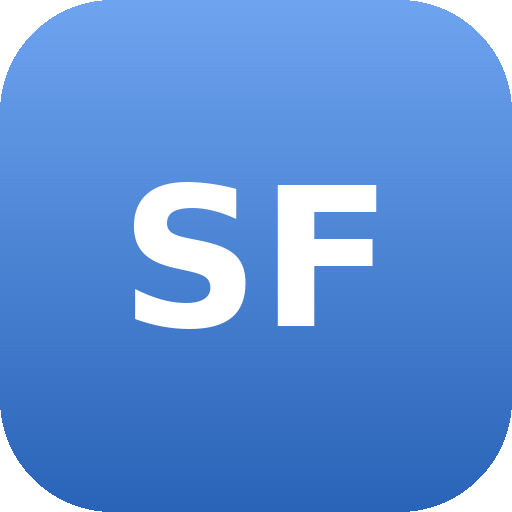
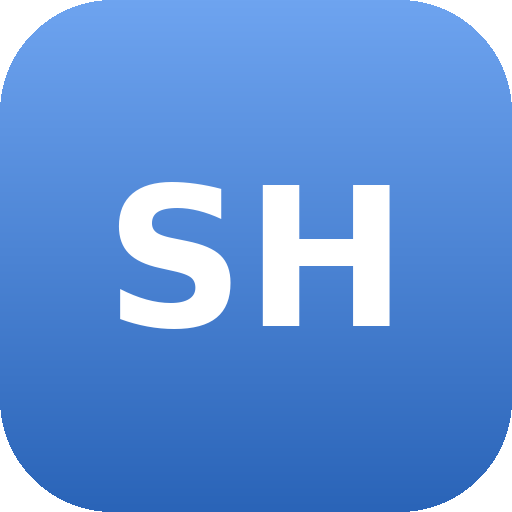
Rename the app to Scott Hub
Display name, page title, lock screens and icons (SF to SH). Repo, web
address and storage keys unchanged. sw.js VERSION sf-v50.

Claude-Session: https://claude.ai/code/session_01Ta18sknUbAz7wjKXMywzWw

Changed region(s): [[0.375, 0.3438, 0.7812, 0.6562], [0.2188, 0.3438, 0.4062, 0.6562], [0.375, 0.3438, 0.4688, 0.4375]]

diff --git a/core/applock.js b/core/applock.js
@@ -50,8 +50,8 @@ export const biometricOn = () => !!(read() && read().credId);
 export async function enableBiometric() {
   const cred = await navigator.credentials.create({ publicKey: {
     challenge: crypto.getRandomValues(new Uint8Array(32)),
-    rp: { name: 'Scott Free' },
-    user: { id: crypto.getRandomValues(new Uint8Array(16)), name: 'scott-free-lock', displayName: 'Scott Free app lock' },
+    rp: { name: 'Scott Hub' },
+    user: { id: crypto.getRandomValues(new Uint8Array(16)), name: 'scott-free-lock', displayName: 'Scott Hub app lock' },
     pubKeyCredParams: [{ type: 'public-key', alg: -7 }, { type: 'public-key', alg: -257 }],
     authenticatorSelection: { authenticatorAttachment: 'platform', userVerification: 'required', residentKey: 'discouraged' },
     timeout: 60000,
@@ -123,7 +123,7 @@ function setupLock() {
   return new Promise((resolve) => {
     let first = null;
     const ask = (title) => {
-      const el = screen(`<h1 class="lock-title">${title}</h1><p class="muted small">This PIN unlocks Scott Free on this device.</p>
+      const el = screen(`<h1 class="lock-title">${title}</h1><p class="muted small">This PIN unlocks Scott Hub on this device.</p>
         <div class="pin-dots"></div><p class="lock-msg" aria-live="polite"></p>${keypad()}`);
       pinEntry(el, async (pin) => {
         if (!first) { first = pin; ask('Enter it again'); return true; }
@@ -150,7 +150,7 @@ function setupLock() {
 // Lock screen: fingerprint (if on) and PIN. Resolves when unlocked.
 function unlock({ onSignOut }) {
   return new Promise((resolve) => {
-    const el = screen(`<h1 class="lock-title">Scott Free</h1><p class="muted small">Enter your PIN${biometricOn() ? ' or use your fingerprint' : ''}</p>
+    const el = screen(`<h1 class="lock-title">Scott Hub</h1><p class="muted small">Enter your PIN${biometricOn() ? ' or use your fingerprint' : ''}</p>
       <div class="pin-dots"></div><p class="lock-msg" aria-live="polite"></p>${keypad()}
       ${biometricOn() ? '<button class="pill-btn lock-bio" type="button">Use fingerprint</button>' : ''}
       <button class="link-btn lock-forgot" type="button">Forgot PIN? Sign out</button>`);

diff --git a/hubs/money/import.js b/hubs/money/import.js
@@ -133,7 +133,7 @@ function openCheck(file) {
     const msg = body.querySelector('.form-msg');
     body.querySelector('[data-copy]').addEventListener('click', async () => {
       const { maskedLayout } = await import('../../core/statement-pdf.js');
-      const text = `Scott Free statement layout (masked)\n${maskedLayout(lines)}`;
+      const text = `Scott Hub statement layout (masked)\n${maskedLayout(lines)}`;
       try {
         await navigator.clipboard.writeText(text);
         msg.textContent = 'Copied. Paste it into your chat with Claude.';

diff --git a/sw.js b/sw.js
@@ -1,9 +1,9 @@
-// Scott Free service worker.
+// Scott Hub service worker.
 // App files: network first, so edits made on GitHub go live, with the cache as
 // the offline fallback. Pinned CDN libraries: cache first. Supabase and other
 // APIs are never cached here.
 
-const VERSION = 'sf-v49';
+const VERSION = 'sf-v50';
 const SHELL_CACHE = `${VERSION}-shell`;
 // Pinned library versions never change, so this cache survives app updates.
 const CDN_CACHE = 'sf-cdn';

diff --git a/index.html b/index.html
@@ -3,7 +3,7 @@
 <head>
   <meta charset="utf-8">
   <meta name="viewport" content="width=device-width, initial-scale=1, viewport-fit=cover">
-  <title>Scott Free</title>
+  <title>Scott Hub</title>
   <meta name="description" content="Personal life hub">
   <meta name="theme-color" content="#f4f7fb" media="(prefers-color-scheme: light)">
   <meta name="theme-color" content="#0f1724" media="(prefers-color-scheme: dark)">

diff --git a/config.js b/config.js
@@ -1,9 +1,9 @@
-// Scott Free: app-wide settings.
+// Scott Hub (formerly Scott Free): app-wide settings.
 // Only the Supabase URL and anon key may ever go here. Never add other secrets:
 // this repo is public.
 
 export const CONFIG = {
-  appName: 'Scott Free',
+  appName: 'Scott Hub',
   ownerName: 'Scott',
   timezone: 'Europe/London',
   locale: 'en-GB',

diff --git a/core/theme.css b/core/theme.css
@@ -1,4 +1,4 @@
-/* Scott Free theme: soft, calm, blue accent. Follows device light/dark. */
+/* Scott Hub theme: soft, calm, blue accent. Follows device light/dark. */
 
 :root {
   --accent: #3b7ddd;

diff --git a/docs/PROGRESS.md b/docs/PROGRESS.md
@@ -244,3 +244,9 @@ Brief: `claude/scott-free-build-prompt.md` (v2, with section 14 addendum) in the
 - Tested in headless Chrome with GridStack and stubs: both tiles locked before, shown after the check-in event. sw.js VERSION sf-v47.
 - (21/11/2026, Scott) App links opened websites: Chrome only opens app screens marked BROWSABLE, and the launcher intent is not. `core/applink.js` now uses each app's own deep link sent to its package (Spotify `spotify:`, Google Calendar `https://calendar.google.com/calendar/r`, Hue `hue2:`), falling back to the Play Store page (Open button) instead of the website. iPhone uses the app scheme (`spotify://`, `googlecalendar://`, `hue2://`) and goes to the App Store if nothing opens within 1.5 s. Computer: website. Needs checking on Scott's phone; the Calendar and Hue deep links are best guesses (fallback to the Play Store Open button). sw.js VERSION sf-v48.
 - (21/11/2026, Scott) Music tile resumes the last played track. Nothing playing: shows "Last played" with artwork, song and artist (`spotify` action `recent`, GET /me/player/recently-played; new scope `user-read-recently-played`, so Scott reconnects once). Play: action `resume` (trackUri plus contextUri; plays in its playlist or album when possible, else the track alone) on the active device, else the phone, else any open device. No Spotify device open: saves the track in sessionStorage (`sf-music-resume`, 5 min limit), opens the Spotify app, and on return to Scott Free starts it automatically (up to 3 tries, 2 s apart). `now` also returns `uri` and `contextUri`. "Open Spotify" link moved above the message so it is never pushed out of view. Function `spotify` must be redeployed. sw.js VERSION sf-v49.
+
+## Renamed to Scott Hub (21/11/2026)
+- Decision (Scott): display name only (option 1). New name "Scott Hub" (also the short name under the icon). Icons redrawn from "SF" to "SH" in the same blue gradient and font (DejaVu Sans Bold): icon-512, icon-192 (rounded), maskable-512 (full bleed, letters in the safe zone), icon-180 (full bleed for iPhone).
+- Changed: manifest name and short_name, page title, `config.js` appName (sign-in screen, authenticator label for new set-ups), app lock screens and fingerprint prompt name, statement layout copy text, file header comments, README.
+- Not changed on purpose: repo name and web address (`/Scott-Free-App/`), `sf-` storage keys and cache names, Spotify and Google developer app names (their setup docs still say "Scott Free", matching what exists in those dashboards). Existing fingerprint and authenticator entries keep the old label; they still work.
+- Android may show the old name and icon under the home screen icon for up to a day; removing and re-adding the icon updates it at once. sw.js VERSION sf-v50.

diff --git a/docs/HANDOVER.md b/docs/HANDOVER.md
@@ -1,16 +1,16 @@
-# Scott Free: Handover for a New Chat
+# Scott Hub (formerly Scott Free): Handover for a New Chat
 
-Last updated: 21/11/2026. Current release: `sw.js` VERSION `sf-v49` (Shopping list, habit questions, Music tile, background art rotation, Lights tile, app links on tiles).
+Last updated: 21/11/2026. Current release: `sw.js` VERSION `sf-v50` (Shopping list, habit questions, Music tile, background art rotation, Lights tile, app links on tiles).
 
 Use this file to start a fresh chat. It replaces the need to re-read the old conversation.
 
 ## 1. Starter prompt for the new chat
 
-> Continue building Scott Free. Read `claude/HANDOVER.md` and `claude/scott-free-build-prompt.md` in this Project. Attach `shawkins-sys/scott-free-app` with push access and clone it. Next feature: <choose from the roadmap>. Confirm the design decisions with me first before building.
+> Continue building Scott Hub (formerly Scott Free). Read `claude/HANDOVER.md` and `claude/scott-free-build-prompt.md` in this Project. Attach `shawkins-sys/scott-free-app` with push access and clone it. Next feature: <choose from the roadmap>. Confirm the design decisions with me first before building.
 
 ## 2. Project basics
 
-- **What it is:** "Scott Free", a personal life-hub PWA for Scott (UK).
+- **What it is:** "Scott Hub" (renamed from "Scott Free" on 21/11/2026, display name and icon only; repo, URL, storage keys and developer dashboard names keep the old name), a personal life-hub PWA for Scott (UK).
 - **Repo:** `shawkins-sys/scott-free-app` (public).
 - **Live site:** https://shawkins-sys.github.io/Scott-Free-App/ (GitHub Pages).
 - **Backend:** Supabase project `fkcnfgevtwemgokrjxrk`.

diff --git a/README.md b/README.md
@@ -1,4 +1,6 @@
-# Scott Free
+# Scott Hub
+
+(Renamed from Scott Free on 21/11/2026. The repo, web address, storage keys and the Spotify and Google developer app names still use the old name; that is expected.)
 
 A calm personal life hub for Scott: installed on an Android phone as an app, and used in a desktop browser. Plain HTML, CSS and JavaScript on GitHub Pages, with Supabase behind it.
 
@@ -64,7 +66,7 @@ To add a second calendar, set `CALENDAR_FEEDS` to a list: `[{"id":"personal","na
 Spotify ends the connection six months after you approve it. The app shows a **Reconnect Spotify** card on Home two weeks before, and again once it has expired. Tap it (or Settings, Morning music, Reconnect Spotify) and approve. Setup guide: `docs/SPOTIFY-SETUP.md`.
 
 ### Import a bank statement
-In the Lloyds app, download a statement PDF. In Scott Free: Money, Pay & import, **Import statement**, choose the PDF. Importing the same period twice is safe. Then confirm anything listed under **Review**. **Check statement** reads a PDF and shows what would be imported without saving anything.
+In the Lloyds app, download a statement PDF. In Scott Hub: Money, Pay & import, **Import statement**, choose the PDF. Importing the same period twice is safe. Then confirm anything listed under **Review**. **Check statement** reads a PDF and shows what would be imported without saving anything.
 
 ### Add a new tile
 1. Copy `tiles/weather/` to a new folder, e.g. `tiles/quotes/`.

diff --git a/docs/SPOTIFY-SETUP.md b/docs/SPOTIFY-SETUP.md
@@ -31,7 +31,7 @@ If Settings shows "Not available" and the function logs say "Invalid JWT", open 
 
 ## 4. Connect in the app
 
-1. Open Scott Free, complete the check-in, then **Settings** on the bottom bar.
+1. Open Scott Hub, complete the check-in, then **Settings** on the bottom bar.
 2. **Connect Spotify** and approve. You come back to Settings with "Spotify connected".
 3. **Choose speaker**: pick your Sonos One. If it is not listed, play something on it from the Spotify app once, then try again.
 4. At home, press **Use my current location as home**.
